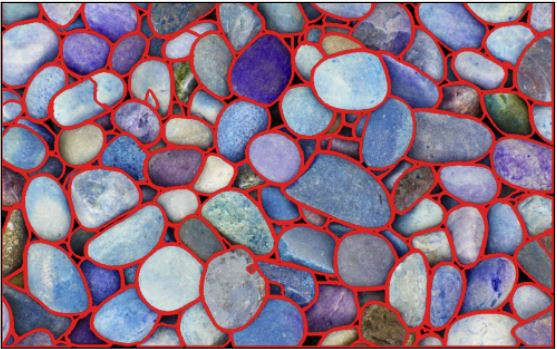
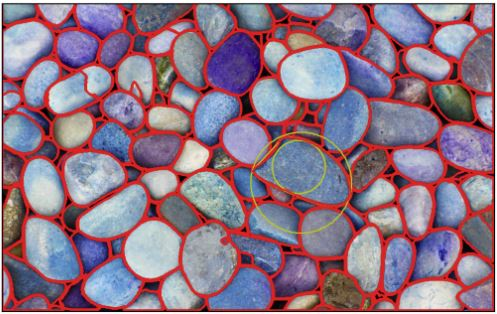
post SAM

Changed region(s): [[0.0, 0.0, 1.0, 1.0], [0.7545, 0.4873, 0.8753, 0.6019]]

diff --git a/_posts/2024-08-05-Segment_Anything_Model.md b/_posts/2024-08-05-Segment_Anything_Model.md
@@ -1,18 +1,20 @@
 ---
 layout: post
-title: Rock Particles Characterization via Images
+title: Rock Particles Shape Analysis
 #subtitle: An essential part of Resources Evaluation. GSLIB Cell Based Method.
-tags: [Segmentation]
+tags: [Image Segmentation]
 bigimg: /img/per010rz.jpg
 share-img: /img/abstract_bg_cuda.png.PNG
 ---
 
 
+One goal of image analysis is the extraction feature information from images to quantify shapes, enumerate structures and characterize shape of structures. 
 Rock particles results from erosion, blasting, comminution, and others. In all cases, the geometric characteristics of these particles encode information about the process that generated them. The mineralogy
 influences the mechanical properties that determine the shape and size of individual particles. Digital images are first partitioned into its constituents prior analysis. 
 
-Segment Anything (SAM), Mask R-CNN and DeepLab are segmentation models. Their applicability for rock particle analysis depend on the requirements of the task, flexibility, customization, resource efficiency among others.
+Segment Anything (SAM), Mask R-CNN and DeepLab are segmentation models. Their applicability for rock particle analysis depend on the requirements of the task, flexibility, customization, resource efficiency, among others.
 SAM excels in zero-shot scenarios, however it is resource-intensive due to its architecture. The example shows a zero-short result on an image with numerous clasts. The coloured masks are SAM's outputs to partition the image. 
+The necessary metrics for the red contours are calculated to derive the shape descriptors. 
 
 
 <div style="display: flex; justify-content: space-between;">
@@ -28,6 +30,7 @@ SAM excels in zero-shot scenarios, however it is resource-intensive due to its a
 </div>
 
 
-The metrics of the constituents are obtained from their mask's outlines. These features include solidity, area, extent and eccentricity.
+The table shows the metrics of the constituents obtained from their mask's outlines. These include solidity, sphericity, convexity, compactness, circularity among others. The image shows 
+
 
 <img src="https://github.com/numpattern/numpattern.github.io/blob/main/img/rockparticle_04.JPG?raw=true" style="width: 100%; height: auto;">
